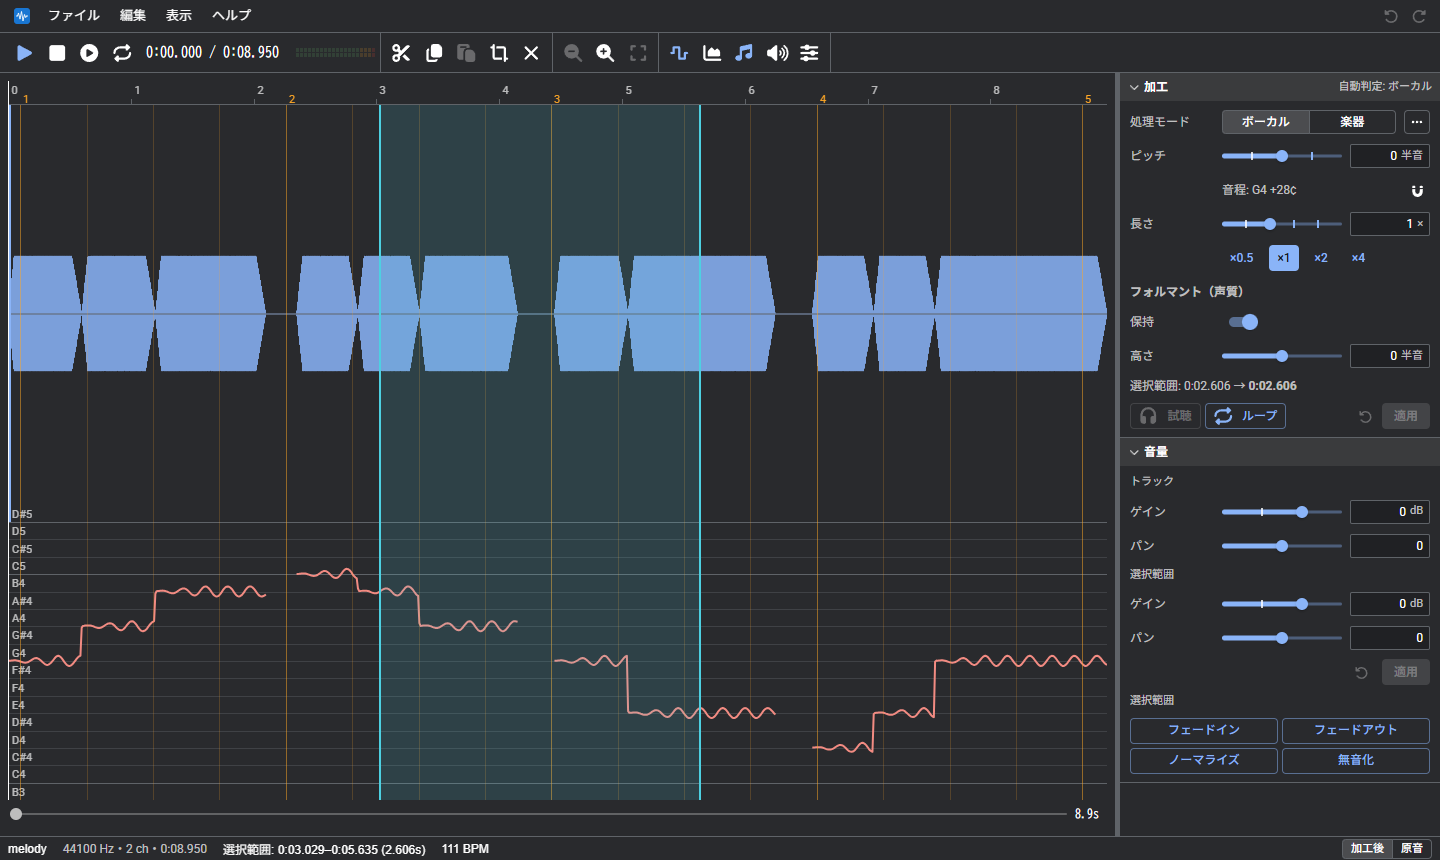
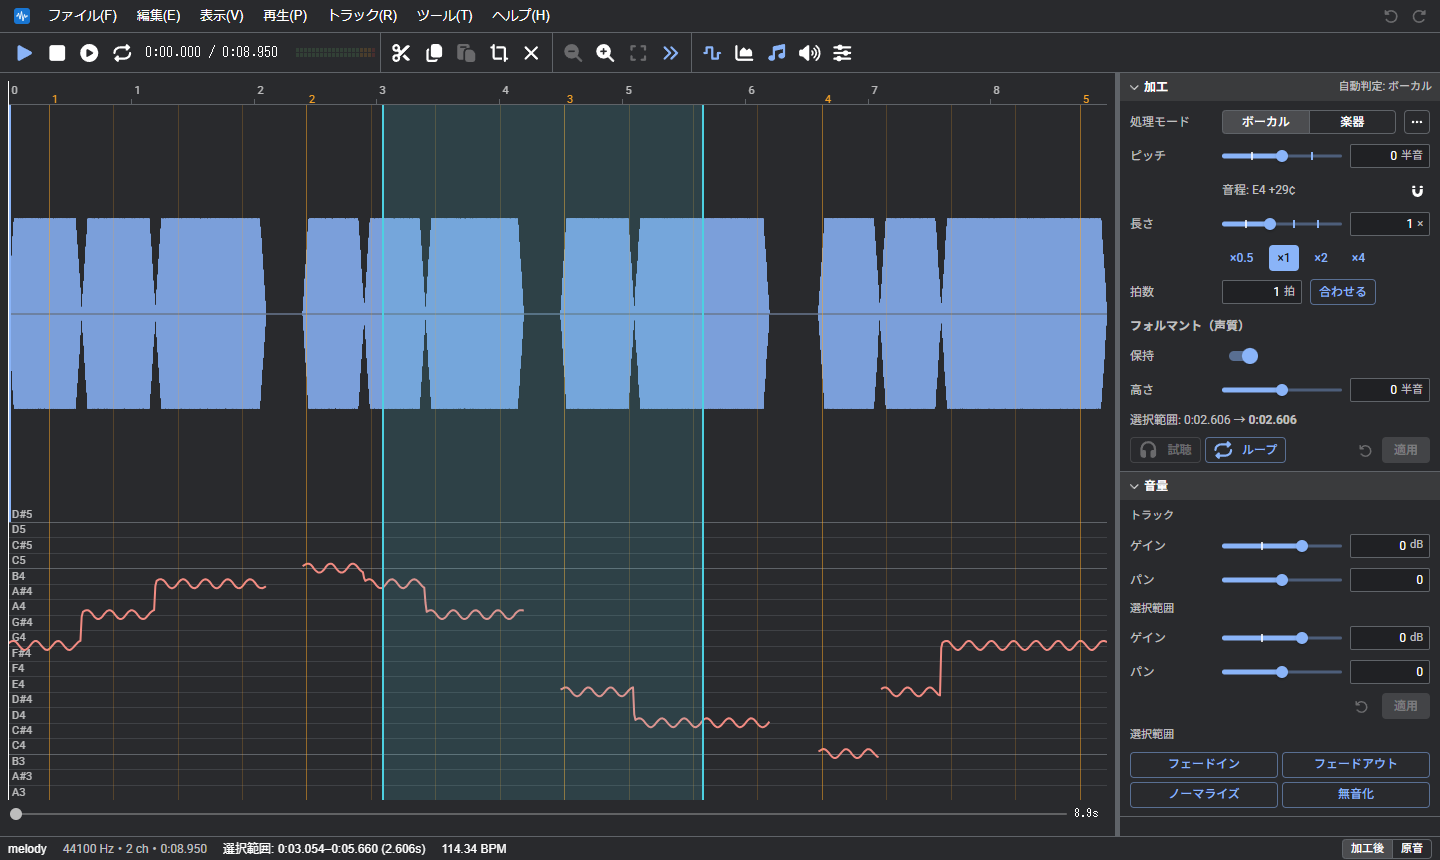
docs: ドキュメント更新

diff --git a/docs/MANUAL.md b/docs/MANUAL.md
@@ -63,7 +63,7 @@ WeVocalSynth の操作方法をまとめた説明書。<br />
 
 | 番号 | 場所 | 内容 |
 | --- | --- | --- |
-| 1 | メニューバー | ファイル、編集、表示、ツール、ヘルプ |
+| 1 | メニューバー | ファイル、編集、表示、再生、トラック、ツール、ヘルプ |
 | 2 | ツールバー | よく使う操作のボタン（[ツールバー](#ツールバー)） |
 | 3 | 時間目盛り | 秒と小節番号。押す・ドラッグで再生位置を移す |
 | 4 | 波形パネル | 範囲を選ぶ・再生位置を動かす |
@@ -81,13 +81,23 @@ WeVocalSynth の操作方法をまとめた説明書。<br />
 | 操作 | 動作 |
 | --- | --- |
 | Alt（単独で押して離す）/ F10 | メニューバーに入る。もう一度押すと抜ける |
-| メニューバーに入って英字（F・E・V・T・H） | そのメニューを開く |
+| メニューバーに入って英字（括弧の英字） | そのメニューを開く |
 | ← / → | 隣のメニューへ移る |
 | ↓ / Enter | 選んでいるメニューを開く |
 | Esc | メニューを閉じる |
 | Alt+英字（例: Alt+F） | メニューを直接開く。アプリとしてインストールして開いているときだけ（ブラウザのタブでは、ブラウザのメニューとぶつかるため使えない） |
 
 英字の下線は、そのキーが使えるときに付く。アプリとして開いているときはいつも、ブラウザのタブではメニューバーに入っている間だけ。
+
+| メニュー | 主な項目 |
+| --- | --- |
+| ファイル(F) | 開く、ファイルをトラックとして追加、プロジェクトを保存、音声ファイルを書き出す、設定 |
+| 編集(E) | 元に戻す・やり直す、操作履歴、切り取り・コピー・貼り付け、逆再生、フェードなどの音量の操作 |
+| 表示(V) | 各パネルの表示、拡大・縮小、再生位置に追従、音量メーター |
+| 再生(P) | 再生 / 一時停止、停止、範囲を試聴、ループ再生、先頭へ・末尾へ |
+| トラック(R) | 追加、複製、名前の変更、削除、ミュート・ソロ・位相反転、統合（[トラック](#トラック)） |
+| ツール(T) | ボーカル抽出、音声の作成 |
+| ヘルプ(H) | ユーザーガイド、ショートカット一覧、更新を確認、このアプリについて |
 
 <details open>
 <summary>ライトテーマの画面（「設定 → 表示」で切り替える）</summary>
@@ -133,42 +143,42 @@ WeVocalSynth の操作方法をまとめた説明書。<br />
 </details>
 
 <details open>
-<summary><b>表示（11〜18）</b></summary>
+<summary><b>表示（11〜19）</b></summary>
 
 | 番号 | ボタン | 説明 | キー |
 | --- | --- | --- | --- |
 | 11 | 縮小 | 波形を横に縮めて、広い範囲を表示する | Ctrl+ホイール |
 | 12 | 拡大 | 波形を横に広げて、細かく表示する | Ctrl+ホイール |
 | 13 | 全体表示 | 音声の全体が収まるように表示する | |
-| ― | 再生位置に追従 | ON なら、再生中に再生位置が画面の外へ出ると表示が付いてくる。OFF にすると、再生しながら表示を自由に動かせる（画像には未掲載） | |
-| 14 | 波形表示 | 波形パネルを出す・隠す | |
-| 15 | スペクトログラム表示 | スペクトログラムパネルを出す・隠す | |
-| 16 | ピッチ表示 | ピッチパネルを出す・隠す | |
-| 17 | 音量表示 | 音量パネルを出す・隠す | |
-| 18 | フォルマント表示 | フォルマントパネルを出す・隠す | |
+| 14 | 再生位置に追従 | ON なら、再生中に再生位置が画面の外へ出ると表示が付いてくる。OFF にすると、再生しながら表示を自由に動かせる | |
+| 15 | 波形表示 | 波形パネルを出す・隠す | |
+| 16 | スペクトログラム表示 | スペクトログラムパネルを出す・隠す | |
+| 17 | ピッチ表示 | ピッチパネルを出す・隠す | |
+| 18 | 音量表示 | 音量パネルを出す・隠す | |
+| 19 | フォルマント表示 | フォルマントパネルを出す・隠す | |
 
 </details>
 
 <details open>
-<summary><b>パネルの操作（19〜28）</b></summary>
+<summary><b>パネルの操作（20〜30）</b></summary>
 
 フォーカスしているパネルに合わせて変わる。画像はピッチパネルのとき。
 
 | 番号 | ボタン | 説明 | キー |
 | --- | --- | --- | --- |
-| 19 | ペン | ピッチを描く | Shift: 半音に揃える<br>Alt: 消す |
-| ― | 掴む（矢印） | ピッチの線を掴んで上下に動かす（[掴んで動かす](#掴んで動かす)）。ペンの右に並ぶ（画像には未掲載） | Shift: 半音刻み |
-| 20 | ↑ | ピッチを半音上げる | ↑（Shift で 0.1 半音） |
-| 21 | ↓ | ピッチを半音下げる | ↓（Shift で 0.1 半音） |
-| 22 | 平らにする | ピッチの揺れ（ビブラート）をなくす | |
-| 23 | 音程に揃える… | ピッチを近い半音や指定した音に揃える | |
-| 24 | ビブラート… | ピッチに揺れを加える | |
-| 25 | MIDI の音程を当てはめる… | ピッチを MIDI ファイルのメロディに合わせる | |
-| 26 | 試聴 | 描いたピッチで加工した音を聴く | |
-| 27 | 適用 | 描いたピッチを音声に反映する | |
-| 28 | 破棄 | 描いたピッチを捨てる | |
+| 20 | ペン | ピッチを描く | Shift: 半音に揃える<br>Alt: 消す |
+| 21 | 掴む（矢印） | ピッチの線を掴んで上下に動かす（[掴んで動かす](#掴んで動かす)） | Shift: 半音刻み |
+| 22 | ↑ | ピッチを半音上げる | ↑（Shift で 0.1 半音） |
+| 23 | ↓ | ピッチを半音下げる | ↓（Shift で 0.1 半音） |
+| 24 | 平らにする | ピッチの揺れ（ビブラート）をなくす | |
+| 25 | 音程に揃える… | ピッチを近い半音や指定した音に揃える | |
+| 26 | ビブラート… | ピッチに揺れを加える | |
+| 27 | MIDI の音程を当てはめる… | ピッチを MIDI ファイルのメロディに合わせる | |
+| 28 | 試聴 | 描いたピッチで加工した音を聴く | |
+| 29 | 適用 | 描いたピッチを音声に反映する | |
+| 30 | 破棄 | 描いたピッチを捨てる | |
 
-20〜25 は選択範囲（なければ全体）にかかる。26〜28 はピッチを描いたときだけ出る。
+22〜27 は選択範囲（なければ全体）にかかる。28〜30 はピッチを描いたときだけ出る。
 
 音量パネルやフォルマントパネルのときは、ペンと、描いた曲線を確定するボタンが出る。
 
@@ -607,7 +617,7 @@ Ctrl+S と Ctrl+Shift+S の割り当ては設定で入れ替えられる。
 
 ## 新しいバージョン
 
-新しい版が公開されると、画面の右下に「新しいバージョンがあります」と出る。「更新」を押すと切り替わる（作業は自動保存から復元される）。× で通知を閉じられる。設定 → 全般 の「今すぐ確認」でも確かめられ、新しい版があればそこから更新できる。
+新しい版が公開されると、画面の右下に「新しいバージョンがあります」と出る。「更新」を押すと切り替わる（作業は自動保存から復元される）。× で通知を閉じられる。「ヘルプ → 更新を確認」や、設定 → 全般 の「今すぐ確認」でも確かめられ、新しい版があればそこから更新できる。
 
 ## キーボード操作
 
